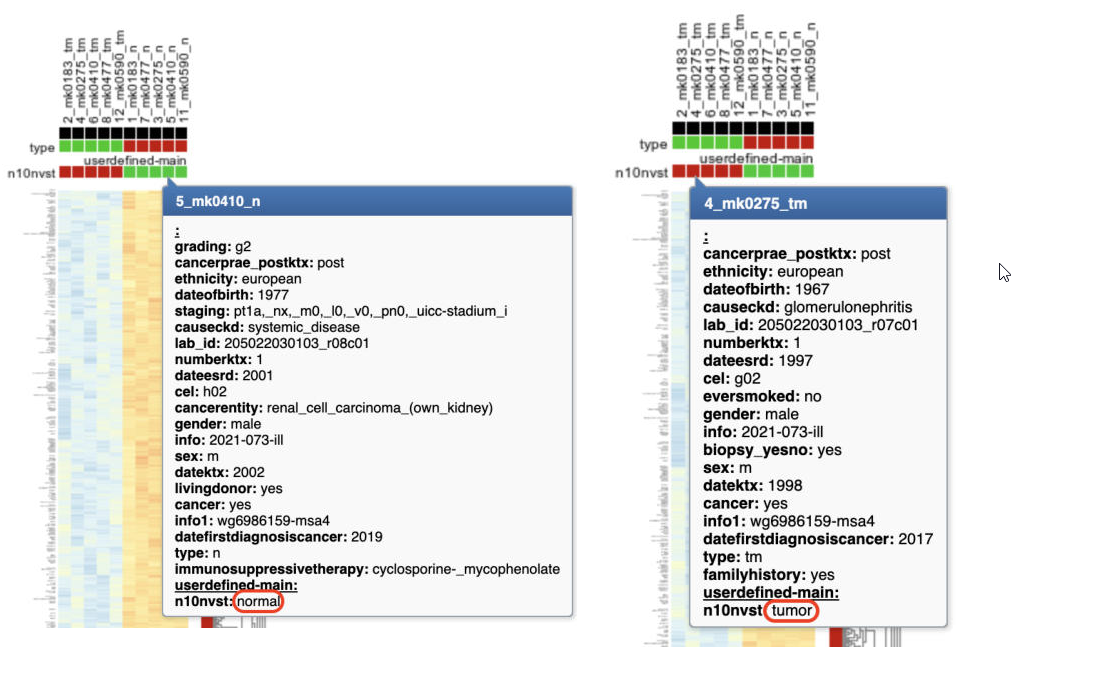
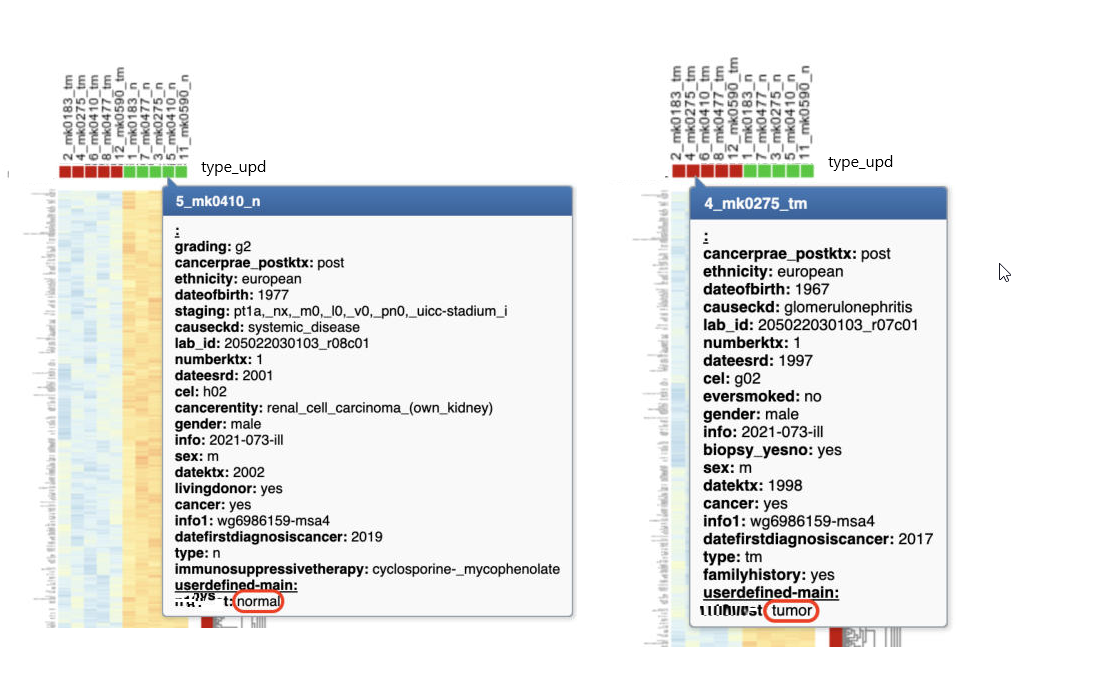
chapter 11 end

diff --git a/docs/Methylation_analysis.md b/docs/Methylation_analysis.md
@@ -704,27 +704,22 @@ Select "Differential expression between two groups" in Field 3. Click "Next" on 
 
 
 
-The next page shows the heatmap of hypermethylation between two groups (normal samples and tumor samples).
+The next page shows a heatmap of methylation z-scores for the samples in the dataset, with samples grouped by tissue type (normal vs. tumor).
 
 ![](_static/images/Methylation/fig11-7.jpg)
 
 [**Figure 11-6: "Heatmap(zscore)" Title**](_static/images/Methylation/fig11-7.jpg)
 
 
+"Zscore," or the standard score, is "a statistical measure that represents the number of standard deviations an individual data point is from the mean of a dataset. It indicates how far a particular data point deviates from the average in terms of standard deviation units." [7] "FDR" stands for False Discovery Rate, "a statistical concept used in multiple hypothesis testing to control for the proportion of false discoveries or false positives." [7]  
 
-
-
-"zscore" or the standard score is "a statistical measure that represents the number of standard deviations an individual data point is from the mean of a dataset. It indicates how far a particular data point deviates from the average in terms of standard deviation units." [7] And "fdr" stands for False Discovery Rate and is "a statistical concept used in multiple hypothesis testing to control for the proportion of false discoveries or false positives." [7]
-
-On the right of the heatmap, the colored block lines show the type of data points. The enlarged versions are shown in Figure 11-8. The red blocks of "n10nvst" are the data points of the tumor patients and the green blocks of "n10nvst" are the data points of the normal people. One could see the details of a certain data point by placing a cursor on the "n10nvst" block. On the pop-up message shows the type of the data point (marked in red) (in Figure 11-8).
+At the top of the heatmap, a colored annotation for track "type_upd" shows the type of each sample; an enlarged view is shown in Figure 11-7. In the "type_upd" track, red blocks mark tumor samples and green blocks mark normal samples. You can view the details of a specific sample by hovering over its block in the "type_upd" track; the pop-up shows that sample's annotation (circled in red here for illustration), as in Figure 11-7.
 
 ![](_static/images/Methylation/fig11-8c.png)
 
-[**Figure 11-7: "Enlarged heatmap zscore - Data points (in red) and normal data point (in green**](_static/images/Methylation/fig11-8c.png)
+[**Figure 11-7: "Enlarged heatmap - normal in green vs. tumor in red**](_static/images/Methylation/fig11-8c.png)
 
-
-
-With this background knowledge, the positive score on the heatmap (in Figure 11-9) is colored in yellow and the negative score in blue. The positive score shows the data point above the mean and the negative below the mean of the datasets. All tumor patients have reciprocal behavior of all normal people, as observed in the color difference in the heatmap (yellow heatmap area for tumor patients are blue heatmap area for normal people).
+The color gradient beside the heatmap shows that positive z-scores are colored yellow-red, while negative z-scores are colored blue. A positive z-score means a sample's methylation value is above the mean for that probe across all samples; a negative z-score means it is below that mean. In this heatmap, the tumor samples largely show the opposite pattern from the normal samples: probes that appear yellow-red (above the mean) in the tumor samples tend to appear blue (below the mean) in the normal samples, and vice versa.
 
 ![](_static/images/Methylation/fig11-9.jpg)
 
@@ -732,7 +727,7 @@ With this background knowledge, the positive score on the heatmap (in Figure 11-
 
 
 
-When the cursor is placed on Gene type axis, a pop-up message containing the gene name, the probe name and the order number (gene name="CLDN10", probe name="cg16275739", order number="581" on the pop-up message in Figure 11-10). The order number can be found from the table "Sort Order Listing" after clicking it as shown in Figure 11-10. One can investigate the difference in a certain gene's expression in this way.
+When the cursor is placed on a row iin the heatmap, a pop-up message containing the gene name, the probe name and the order number (gene name="CLDN10", probe name="cg16275739" on the pop-up message in Figure 11-9). The samples, and the genes are listed in order of appearance in the table that opens when you click on "Sort Order Listing", as shown in Figure 11-9. 
 
 ![](_static/images/Methylation/fig11-10.jpg)
 
